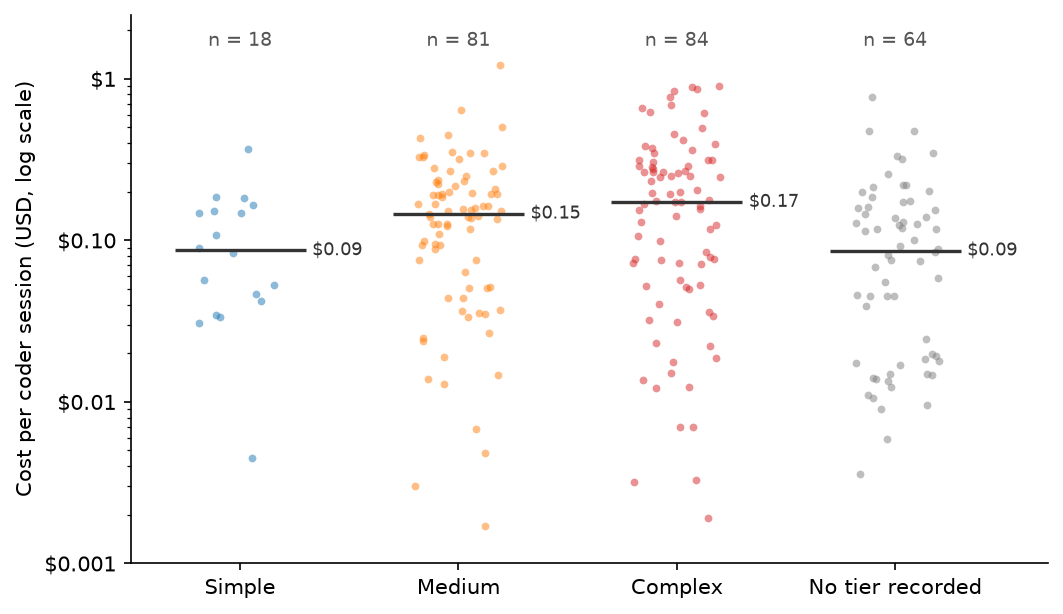
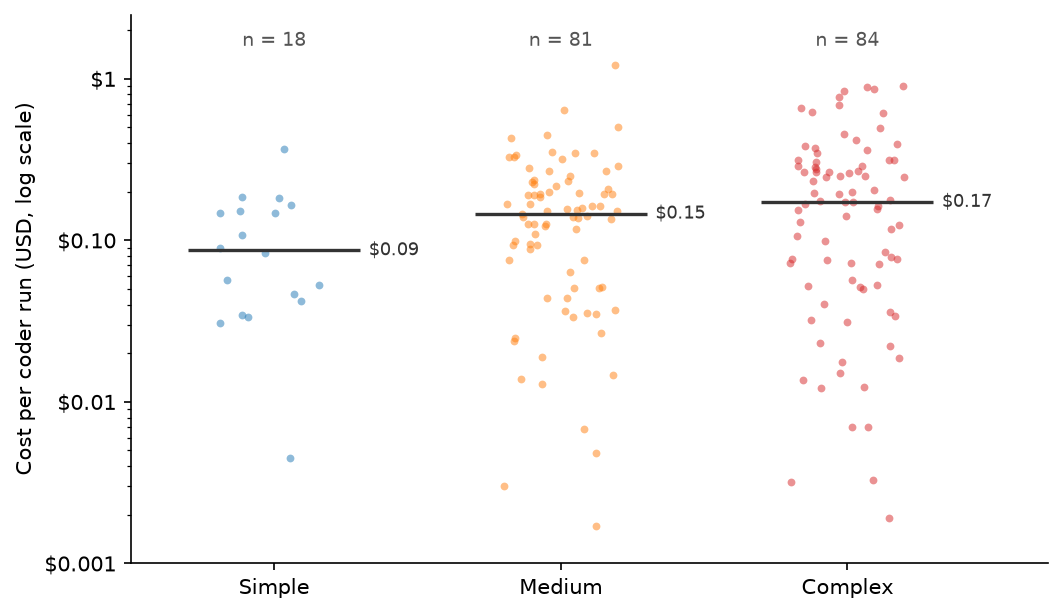
docs(evidence): count only formal coder runs that ran tier classification

diff --git a/scripts/pi-coder-stats.py b/scripts/pi-coder-stats.py
@@ -6,13 +6,17 @@ no session ids, paths, repository or owner names, or issue text.
 Usage:
   uv run python scripts/pi-coder-stats.py [--owners OWNER,...] > docs/evidence/pi-coder-aggregate.json
 
-Scope: a coder session is a pi session that invoked the coder skill (read
-coder/SKILL.md, or a user prompt naming the coder skill) and then spawned coder-*
-delegates or wrote coder handoffs. Its cost is the orchestrator's messages from
+Scope: a coder session is a formal coder run: a pi session that invoked the coder
+skill (read coder/SKILL.md, or a user prompt naming the coder skill), spawned
+coder-* delegates or wrote coder handoffs, and ran the skill's mandatory tier
+classification (a tier recorded in handoffs or the transcript, or a judge call
+with a tier question). Invoking sessions that skipped classification (research,
+reviews, follow-ups, single-phase experiments) are reported as informal and
+excluded, with their PRs. Its cost is the orchestrator's messages from
 the invocation onward plus every coder-* delegate it spawned, using pi's own
 per-message usage.cost.total. Tier per session: the highest tier in its handoff
 files, else the highest tier the orchestrator wrote in the transcript, else
-"none" (no tier recorded, e.g. review or merge follow-ups). Bounds:
+"not_saved" (judge called, result not persisted). Bounds:
   lower = delegates only
   upper = delegates + the whole orchestrator session (includes interactive work
           before the invocation)
@@ -72,6 +76,7 @@ def parse_session(path):
         "tokens": 0,
         "models": collections.Counter(),
         "tiers": set(),
+        "tier_judged": False,
     }
     pr_calls = set()
     with open(path, errors="replace") as f:
@@ -109,9 +114,19 @@ def parse_session(path):
                         s["invoked"] = True
                     if "gh pr create" in call:
                         pr_calls.add(c.get("id"))
-                    for value in (c.get("arguments") or {}).values():
+                    args = c.get("arguments") or {}
+                    if isinstance(args, str):
+                        try:
+                            args = json.loads(args)
+                        except ValueError:
+                            args = {}
+                    for value in args.values():
                         if isinstance(value, str):
                             s["tiers"].update(TIER_WRITE.findall(value))
+                    if "judge" in (c.get("name") or "") and any(
+                        str(q).startswith("tier") for q in (args.get("questions") or {})
+                    ):
+                        s["tier_judged"] = True
                 usage = msg.get("usage") or {}
                 cost = (usage.get("cost") or {}).get("total") or 0.0
                 s["cost_all"] += cost
@@ -213,15 +228,15 @@ def main():
     for s in sessions.values():
         if s["role"]:
             children[s["parent"]].append(s)
-    orch = {
+    candidates = {
         p: s
         for p, s in sessions.items()
         if not s["role"] and s["invoked"] and (children[p] or s["sids"])
     }
-    owner_of_sid = {sid: p for p, s in orch.items() for sid in s["sids"]}
+    owner_of_sid = {sid: p for p, s in candidates.items() for sid in s["sids"]}
     ad_hoc = []
     for p, kids in list(children.items()):
-        if p in orch:
+        if p in candidates:
             continue
         for k in kids:  # delegates of a non-coder session sharing a coder run id
             hit = next(
@@ -233,8 +248,8 @@ def main():
                 ad_hoc.append(k)
 
     index = handoff_index(args.repos_root)
-    units = []
-    for p, s in orch.items():
+    units, informal = [], []
+    for p, s in candidates.items():
         kids = children[p]
         deleg = sum(k["cost_all"] for k in kids)
         sids = s["sids"] | {i for k in kids for i in k["sids"]}
@@ -245,17 +260,17 @@ def main():
             pr = index.get(i, (None, None))[1]
             if pr and PR_URL.search(pr):
                 prs.add(PR_URL.search(pr).groups())
-        units.append(
-            {
-                "lower": deleg,
-                "primary": deleg + s["cost_after"],
-                "upper": deleg + s["cost_all"],
-                "tier": max(tiers, key=TIERS.index) if tiers else "none",
-                "scoped": [s, *kids],
-                "prs": prs,
-                "delegates": len(kids),
-            }
-        )
+        unit = {
+            "lower": deleg,
+            "primary": deleg + s["cost_after"],
+            "upper": deleg + s["cost_all"],
+            "tier": max(tiers, key=TIERS.index) if tiers else "not_saved",
+            "scoped": [s, *kids],
+            "prs": prs,
+            "delegates": len(kids),
+        }
+        # formal run: the skill's mandatory first step (tier classification) ran
+        (units if tiers or s["tier_judged"] else informal).append(unit)
 
     scoped = [x for u in units for x in u["scoped"]]
     models = sum((x["models"] for x in scoped), collections.Counter())
@@ -273,7 +288,9 @@ def main():
         "window": {"first": starts[0][:7], "last": starts[-1][:7]} if starts else None,
         "coder_sessions": {
             "count": len(units),
-            "by_highest_tier": {t: len(by_tier.get(t, [])) for t in (*TIERS, "none")},
+            "by_highest_tier": {
+                t: len(by_tier.get(t, [])) for t in (*TIERS, "not_saved")
+            },
             "delegate_sessions": sum(u["delegates"] for u in units),
         },
         "cost_usd": {
@@ -285,9 +302,17 @@ def main():
                 b: pct([u[b] for u in units]) for b in ("lower", "primary", "upper")
             },
             "per_pr_opened": round(primary_total / len(prs), 4) if prs else None,
-            "ad_hoc_delegates_excluded": {
-                "sessions": len(ad_hoc),
-                "cost": round(sum(k["cost_all"] for k in ad_hoc), 2),
+            "excluded": {
+                "informal_sessions": len(informal),
+                "informal_delegate_sessions": sum(u["delegates"] for u in informal),
+                "informal_cost": round(sum(u["primary"] for u in informal), 2),
+                "informal_prs_opened": len(
+                    set().union(*(u["prs"] for u in informal)) - prs
+                    if informal
+                    else set()
+                ),
+                "ad_hoc_delegate_sessions": len(ad_hoc),
+                "ad_hoc_cost": round(sum(k["cost_all"] for k in ad_hoc), 2),
             },
         },
         "tokens": {

diff --git a/figures/fig-session-cost.py b/figures/fig-session-cost.py
@@ -1,4 +1,4 @@
-"""Figure: cost per coder session by highest tier, log scale.
+"""Figure: cost per formal coder run (session) by highest tier, log scale.
 
 Data source: docs/evidence/pi-coder-aggregate.json (per_session_cost_by_tier),
 produced by scripts/pi-coder-stats.py from pi session logs (orchestrator from
@@ -22,7 +22,6 @@ GROUPS = [
     ("Simple", "simple", "#1f77b4"),
     ("Medium", "medium", "#ff7f0e"),
     ("Complex", "complex", "#d62728"),
-    ("No tier recorded", "none", "#7f7f7f"),
 ]
 
 rng = random.Random(42)
@@ -44,7 +43,7 @@ ax.set_ylim(0.001, 2.5)
 ax.set_yticks([0.001, 0.01, 0.1, 1], ["$0.001", "$0.01", "$0.10", "$1"])
 ax.set_xticks(range(len(GROUPS)), [g[0] for g in GROUPS])
 ax.set_xlim(-0.5, len(GROUPS) - 0.3)
-ax.set_ylabel("Cost per coder session (USD, log scale)", fontsize=10)
+ax.set_ylabel("Cost per coder run (USD, log scale)", fontsize=10)
 ax.spines[["top", "right"]].set_visible(False)
 
 plt.tight_layout()

diff --git a/docs/evidence/2026-10-pipeline-stats.md b/docs/evidence/2026-10-pipeline-stats.md
@@ -11,57 +11,58 @@ number comes from a committed aggregate that a script regenerates from local log
 
 | Measure | Result |
 |---|---|
-| Coder sessions | 247, with 871 delegate sessions |
-| PRs merged | 305 of 321 queried (95.0%) |
-| PR open to merge | median 15 min |
-| Model cost per PR opened | $0.13 |
+| Formal coder runs | 185 sessions, with 768 delegate sessions |
+| PRs merged | 236 of 249 queried (94.8%) |
+| PR open to merge | median 16 min |
+| Model cost per PR opened | $0.14 |
 | Input tokens served from cache | 95.8% |
 | Tier proposals confirmed by the judge | 88% |
 
 ## PR outcomes
 
-PRs are the URLs printed by `gh pr create` in coder sessions plus the `pr_url`
+PRs are the URLs printed by `gh pr create` in formal coder runs plus the `pr_url`
 in each `04-validation.json`, queried read-only from GitHub for the maintainer's
 personal organizations.
 
-*Table 2: Outcomes of PRs opened by coder sessions.*
+*Table 2: Outcomes of PRs opened by formal coder runs.*
 
 | Metric | Value |
 |---|---|
-| PRs opened | 325 (321 queried; 4 in other organizations not queried) |
-| Merged | 305 of 321 (95.0%); 16 closed without merge; 0 open |
-| PR open to merge | median 0.24 h, p90 1.5 h |
-| Merged PR size | median 3 files, +65/-9 lines; p90 11 files, +508/-72 lines |
+| PRs opened | 252 (249 queried; 3 in other organizations not queried) |
+| Merged | 236 of 249 (94.8%); 13 closed without merge; 0 open |
+| PR open to merge | median 0.27 h, p90 1.5 h |
+| Merged PR size | median 3 files, +79/-9.5 lines; p90 11 files, +513/-75 lines |
 
 ## Cost
 
-A coder session is a pi session that invoked the skill (read `SKILL.md`, or a
-prompt naming the coder skill) and then spawned coder delegates or wrote coder
-handoffs. Its cost is the orchestrator from the invocation onward plus every
-delegate it spawned, as recorded by pi per message.
+A formal coder run is a pi session that invoked the skill (read `SKILL.md`, or a
+prompt naming the coder skill), spawned coder delegates or wrote coder handoffs,
+and ran the skill's mandatory first step, tier classification. Its cost is the
+orchestrator from the invocation onward plus every delegate it spawned, as
+recorded by pi per message. Sessions that invoked the skill but skipped
+classification (mostly research with a scout delegate, PR reviews and rebases,
+merge follow-ups, and single-phase experiments) are excluded, with their PRs.
 
-*Table 3: Cost of 247 coder sessions and their 871 delegate sessions.*
+*Table 3: Cost of 185 formal coder runs and their 768 delegate sessions.*
 
 | Metric | Value |
 |---|---|
-| Total cost | $42.82 (bounds: $14.13 delegates only, $43.56 whole sessions) |
-| Per coder session | median $0.13, p90 $0.36 |
-| Per PR opened | $0.13 (325 PRs) |
-| Tokens processed | 1.13 billion; 95.8% of input tokens served from cache |
+| Total cost | $35.28 (bounds: $12.98 delegates only, $35.72 whole sessions) |
+| Per coder run | median $0.15, p90 $0.39 |
+| Per PR opened | $0.14 (252 PRs) |
+| Tokens processed | 0.94 billion; 95.8% of input tokens served from cache |
 | Model | `zai/glm-5.3-flash` on 99.8% of assistant messages |
-| Excluded | 86 ad hoc delegate sessions spawned outside the skill ($1.36) |
+| Excluded | 62 informal sessions without tier classification (103 delegate sessions, $7.53, 73 PRs); 86 ad hoc delegate sessions spawned outside the skill ($1.36) |
 
-![Strip plot of cost per coder session on a log scale: simple median $0.09 (n = 18), medium $0.15 (n = 81), complex $0.17 (n = 84), no tier recorded $0.09 (n = 64)](../../figures/fig-session-cost.png)
+![Strip plot of cost per formal coder run on a log scale: simple median $0.09 (n = 18), medium $0.15 (n = 81), complex $0.17 (n = 84)](../../figures/fig-session-cost.png)
 
-*Figure 1: Cost per coder session by the highest tier among its runs, log
-scale, with median bars; source
+*Figure 1: Cost per formal coder run by the highest tier it recorded, log
+scale, with median bars; 2 runs whose judge result was not saved are omitted;
+source
 [`figures/fig-session-cost.py`](../../figures/fig-session-cost.py).*
 
-Tier comes from the session's handoff files, else from the tier the orchestrator
-wrote in its transcript. The 64 sessions with no tier recorded split into 28 that
-spawned no delegates (follow-ups such as review fixes, merges, and CI waits) and
-36 that ran delegates without persisting a tier: 21 never called the judge, and
-15 called it but wrote the result nowhere the script reads.
+Tier comes from the run's handoff files, else from the tier the orchestrator
+wrote in its transcript.
 
 ## Gate outcomes
 
@@ -110,7 +111,7 @@ resamples, seed 42); source
   Constraint #10), plus the CHECK verdicts in the session handoff directories
   still on disk. Aggregate: [`coder-log-aggregate.json`](coder-log-aggregate.json),
   built by [`scripts/coder-stats.sh`](../../scripts/coder-stats.sh).
-- **pi session logs:** per-message cost and token usage for coder sessions and
+- **pi session logs:** per-message cost and token usage for formal coder runs and
   their delegates, and the PRs those sessions opened. Aggregate:
   [`pi-coder-aggregate.json`](pi-coder-aggregate.json), built by
   [`scripts/pi-coder-stats.py`](../../scripts/pi-coder-stats.py).
@@ -125,11 +126,11 @@ text, or dates finer than the month.
   experimental sessions are not filtered out.
 - Cost is pi's per-message cost from its configured per-token prices, not an
   invoice.
-- A coder session is not a run: a relay successor starts a new session, and
-  one session can run several issues in parallel streams, so cost per PR opened
-  is the steadier unit.
-- Coder sessions are identified heuristically (skill read or prompt naming the
-  skill).
+- The unit is a pi session: a relay successor starts a new session, and one
+  session can run several issues in parallel streams, so cost per PR opened is
+  the steadier unit.
+- Formal runs are identified heuristically: skill invocation plus a recorded
+  tier or a tier judge call.
 - Merging is the maintainer's decision, not an independent quality measure;
   the 16 closed PRs were not reviewed individually (some may be superseded).
 - 6 of 591 log lines are malformed and skipped; 2 tier decisions with a final

diff --git a/README.md b/README.md
@@ -75,8 +75,8 @@ constraints — are specified in [`skills/coder/SKILL.md`](skills/coder/SKILL.md
 
 Measured over two months of daily use on one maintainer's machine, September to October 2026:
 
-- **95% of PRs merged:** 305 of 321, with a median of 15 minutes from PR open to merge.
-- **$0.13 in model cost per PR opened**, across 247 coder sessions, with 96% of input tokens served from cache.
+- **95% of PRs merged:** 236 of 249, with a median of 16 minutes from PR open to merge.
+- **$0.14 in model cost per PR opened**, across 185 formal coder runs, with 96% of input tokens served from cache.
 - **88% of tier proposals confirmed** by the judge; the rest moved one tier up or down.
 
 Full numbers, figures, caveats, and the scripts that regenerate them: [Pipeline telemetry](docs/evidence/2026-10-pipeline-stats.md). One annotated run, five issues in parallel: [Case study](docs/examples/2026-09-five-parallel-issues.md).
